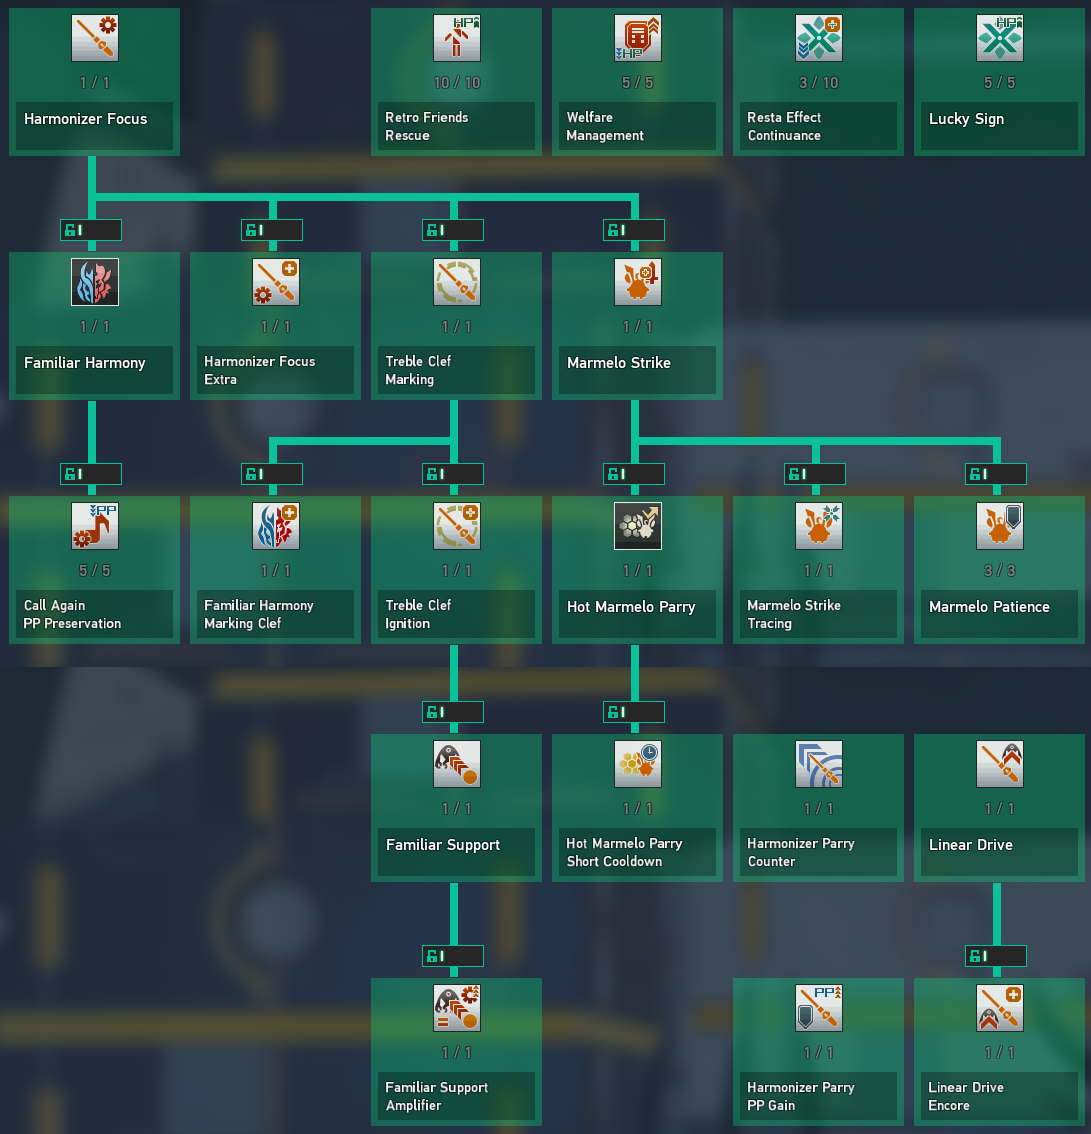
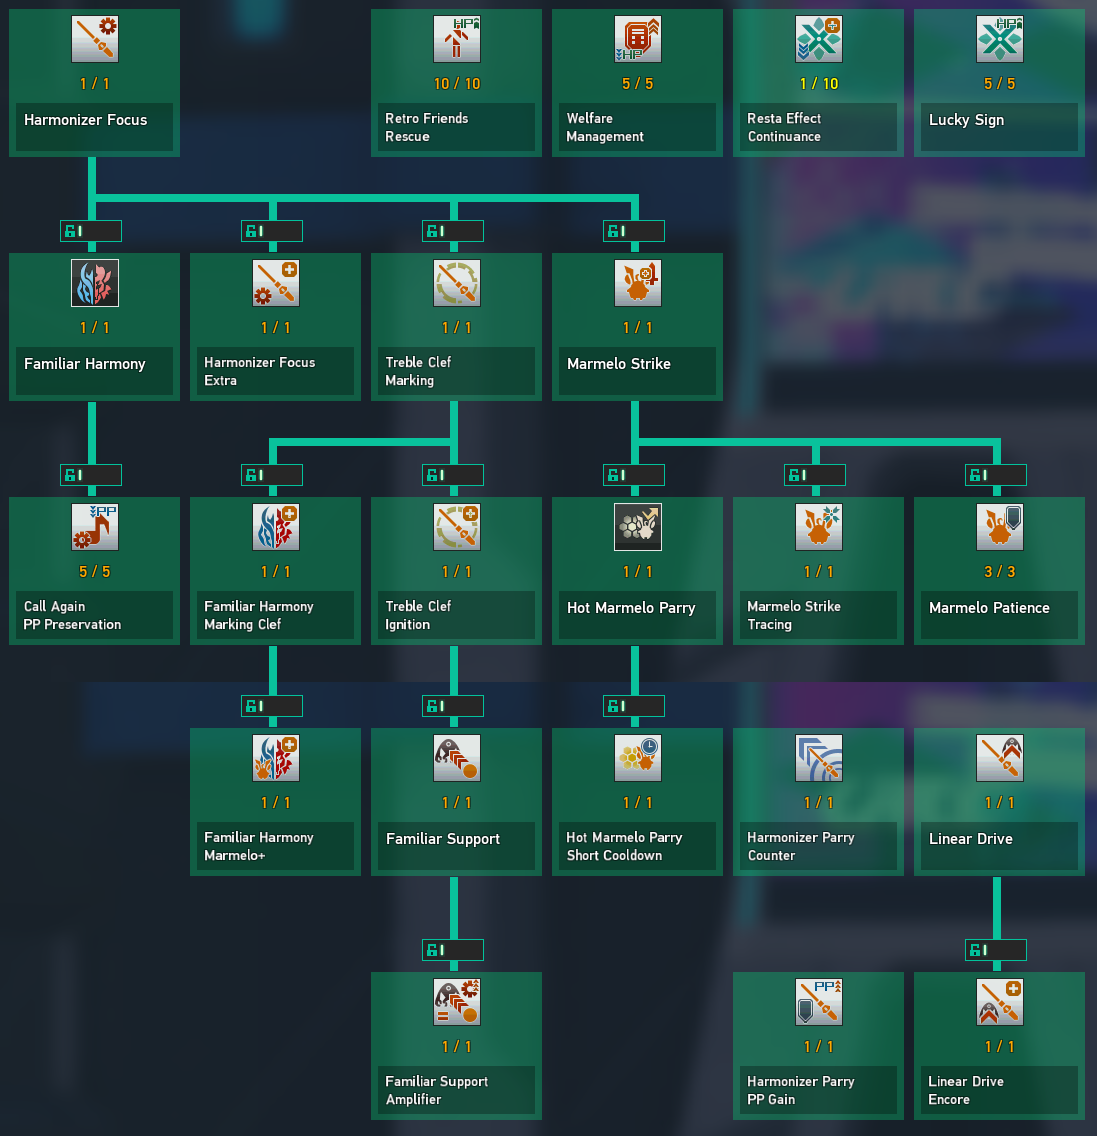
Add Familiar Harmony Marmelo+ to Skill Tree and Gameplay Tips

diff --git a/source/skill-tree.md b/source/skill-tree.md
@@ -112,6 +112,21 @@ The current stage of Marmelo can be seen in the hotbar and also manifests in Mar
 ![Marmelo Strike Stages](_static/skill/MarmeloStrikeStages.png)
 _Marmelo at different stages depending on the gauge. Initially, Marmelo is small at Stage 0 (indicated by the 0 bars in its gauge). After guarding one or two attacks with the Weapon Action, Marmelo advances to Stage 1, increasing in size and damage when thrown. After guarding three or more attacks, Marmelo advances to Stage 2 in which size and damage are maximized._
 
+(familiar-harmony-marmelo-plus)=
+### ![icon](_static/skill/38px-UISkillFamiliarHarmonyMarmelo.png) Familiar Harmony Marmelo+
+If [Marmelo's Focus Gauge](marmelo-strike) is not empty, [Familiar Harmony](familiar-harmony) will consume 2 (Marmelo) guards worth of focus from the Marmelo Focus Gauge to deal extra damage.
+If the Marmelo Focus Gauge currently only as 1 guard worth of focus (Stage 1), Familiar Harmony will consume the 1 guard *and deal the same amount of damage as 2 guards worth of focus*.
+Controversially, it means that **Familiar Harmony Marmelo+ is the most effective at a Stage 1 Marmelo achieved by guarding just a single attack**.
+
+```{note}
+If you can guarantee that you consume only 1 Marmelo guard for every Familiar Harmony you use, your DPS will skyrocket! However, this is not always practical.
+Some may question whether or not Familiar Harmony Marmelo+ is worth taking due to this fact.
+
+The general rule of thumb here is that **one use of Familiar Harmony Marmelo+ consuming 1 Marmelo guard will offset the DPS loss of using five Familiar Harmony Marmelo+ consuming 2 Marmelo guards**.
+Therefore, Familiar Harmony Marmelo+ is still a DPS increase in the majority of situations!
+In the few situations where Familiar Harmony Marmelo+ is a DPS loss, the loss is generally quite small.
+```
+
 (hot-marmelo-parry)=
 ### ![icon](_static/skill/38px-NGSUISkillHotMarmeloParry.png) Hot Marmelo Parry 
 Adds an active skill you can activate at _any_ time to have Marmelo guard an attack for you.

diff --git a/source/moveset.md b/source/moveset.md
@@ -95,9 +95,13 @@ _Marmelo at different stages depending on the gauge. Initially, Marmelo is small
 ## ![icon](_static/skill/38px-NGSUISkillFamiliarHarmony.png) Familiar Harmony
 
 By expending one Fredran stock and one Wulfen stock (see [Harmonizer Focus](#harmonizer-focus)), you can deal massive damage in a large cone-shaped area of effect (AoE) in front of you.
+With [Familiar Harmony Marmelo+](#familiar-harmony-marmelo-plus) and a non-empty [Marmelo Focus Gauge](#marmelo-strike), Familiar Harmony will additionally consume Marmelo Focus to deal additional damage.
+(See the [Skill Tree](#familiar-harmony-marmelo-plus) for additional information about Familiar Harmony Marmelo+)
+
 It's great to use for mobbing to deal damage to a large number of enemies at once.
-When using it against bosses, you should try to save Familiar Harmonies for downs or for when you can guarantee a hit onto an enemy weakspot.
-However, you should also sure you don't overcap on your Fredran or Wulfen stocks, otherwise the Harmonizer Focus just goes to waste instead of being used for building up another Familiar Harmony.
+When using it against bosses, you should try to save Familiar Harmonies for downs, for when you can guarantee a hit onto an enemy weakspot, or when you have 1 Marmelo guard of focus and can guarantee a hit before you need to guard another attack.
+
+You should also make sure you don't overcap on your Fredran or Wulfen stocks, otherwise the Harmonizer Focus just goes to waste instead of being used for building up another Familiar Harmony.
 Familiar Harmony also restores PP and applies a [Treble Clef Mark](#treble-clef-marking) to each enemy hit if you have the [Familiar Harmony Marking Clef](#familiar-harmony-marking-clef) skill.
 
 ```{video} _static/skill/CombatFamiliarHarmony.mp4

diff --git a/source/gameplay.md b/source/gameplay.md
@@ -47,6 +47,8 @@ It is more DPS to omit the Harmonizer Parry Counter in such cases than to miss t
 
 - If your [Marmelo Focus Gauge](#marmelo-strike) is full, prioritize throwing Marmelo as soon as possible to deal massive damage and reset Marmelo's focus gauge back to zero so that you don't waste subsequent opportunities to charge Marmelo for extra damage.
 
+- If your [Marmelo Focus Gauge](#marmelo-strike) is at Stage 1 from guarding only a single attack, prioritize using [Familiar Harmony](#familiar-harmony) if you can, in order to make the most out of [Familiar Harmony Marmelo+](#familiar-harmony-marmelo-plus) for huge damage. However, don't do this if it will cause you to miss your next opportunity to guard an attack.
+
 - If your Fredran focus is nearly full, you should consider making a Wulfen [Familiar Support](#familiar-support) crest instead of a Fredran crest to help generate more Wulfen Focus to use more [Familiar Harmonies](#familiar-harmony). The same thing applies vice-versa (Wulfen vs Fredran)
 
 - While the above rotation will eventually produce a [maximally-amplified Familiar Support crest](#familiar-support-amplifier), it does not do so very quickly. You can choose to perform a [Treble Clef Ignition](#treble-clef-ignition) earlier in the rotation to get the (next level of amplified) Familiar Support crest sooner. For instance, you can skip the repeat Tapped [Fredran Riding](#fredran-riding) in step 3, perform steps 4 and 5 to obtain an early Fredran [Familiar Support](#familiar-support) crest, and then perform the repeat Tapped [Fredran Riding](#fredran-riding) before step 6 to get the 1 needed [Fredran Stock](#harmonizer-focus) with the help of the crest

diff --git a/source/index.md b/source/index.md
@@ -24,7 +24,7 @@ To play Waker effectively, you need to master the use of your Familiars and thei
 It requires balancing the [Focus Gauges](#harmonizer-focus) of each Familiar and utilizing other [class skills](#core-skills) depending on the situation.
 
 Waker's biggest strength lies in its versatility;
-it performs well in any situation you can throw at it thanks to its variety of Familiars and skills, while also boasting the greatest mobility out of all the other classes!
+it performs well in any situation you can throw at it thanks to its variety of Familiars and skills, while also boasting some of the greatest mobility out of all the classes!
 However, it is also one of the most complex and difficult classes to master due to the sheer number of mechanics involved and the unforgiving animation locks on nearly every action.
 Optimal Waker gameplay requires planning out each subsequent move in order to maximize Familiar Focus Gauge accumulation while simultaneously timing each of those moves carefully in order to stay safe when fighting opponents.
 

diff --git a/source/credits.md b/source/credits.md
@@ -2,7 +2,9 @@
 
 Thanks to the [Arks-Visiphone](https://pso2na.arks-visiphone.com/wiki/Main_Page) for many of the NGS UI icons used across this website, as well as being a great reference for damage formulas, skills, and specific stats for equipment.
 
-Thanks to Mirumi#7022 and Maru#5091 for the help with reviewing the content in this guide and pointing out information that I forgot to include.
+Thanks to not.miru and maru5091 for the help with reviewing the content in this guide and pointing out information that I forgot to include.
+
+Thanks to theuberclips on Discord for additional Waker tips and information.
 
 ```{raw} html
 <meta content="Credits" property="og:title" />
